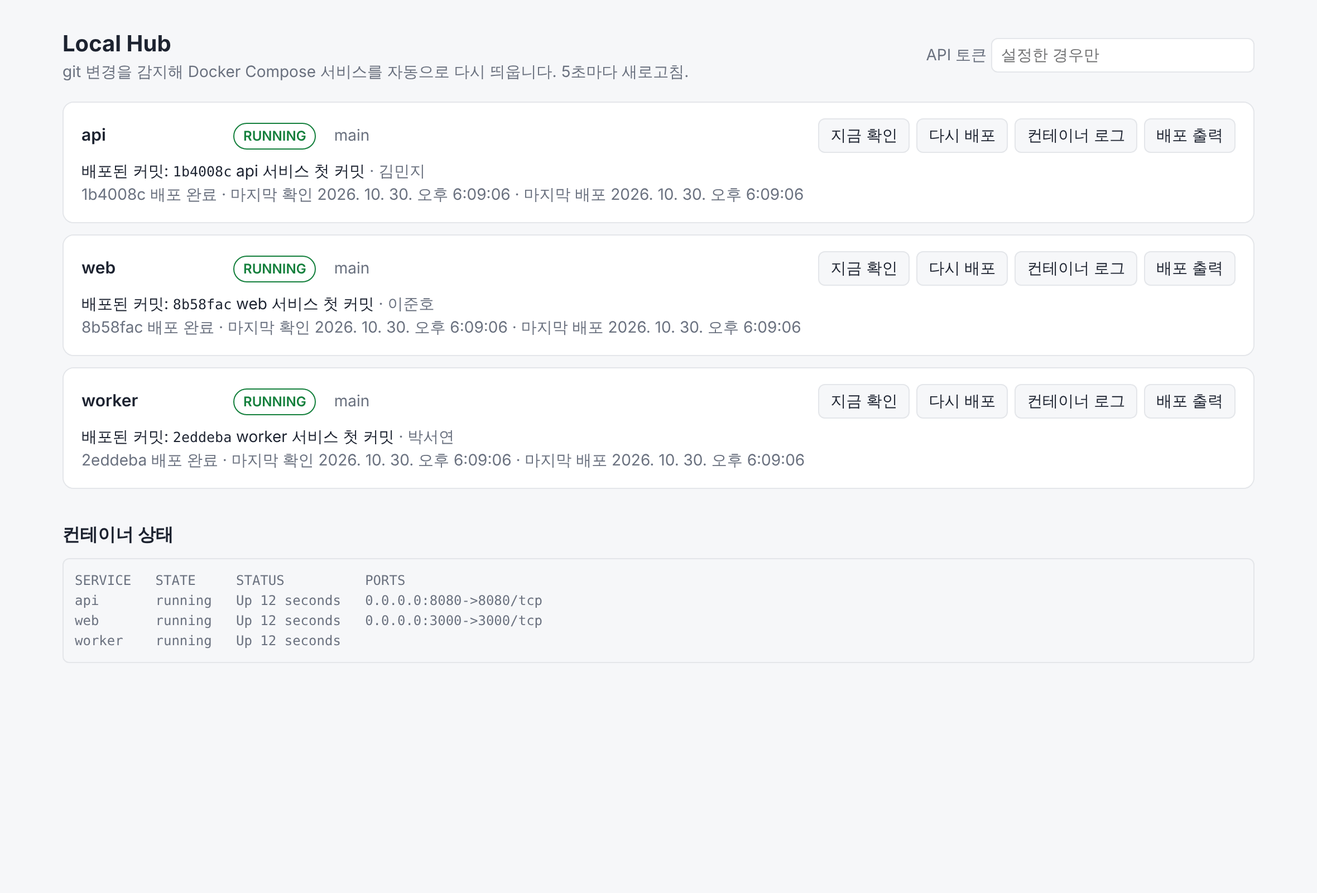
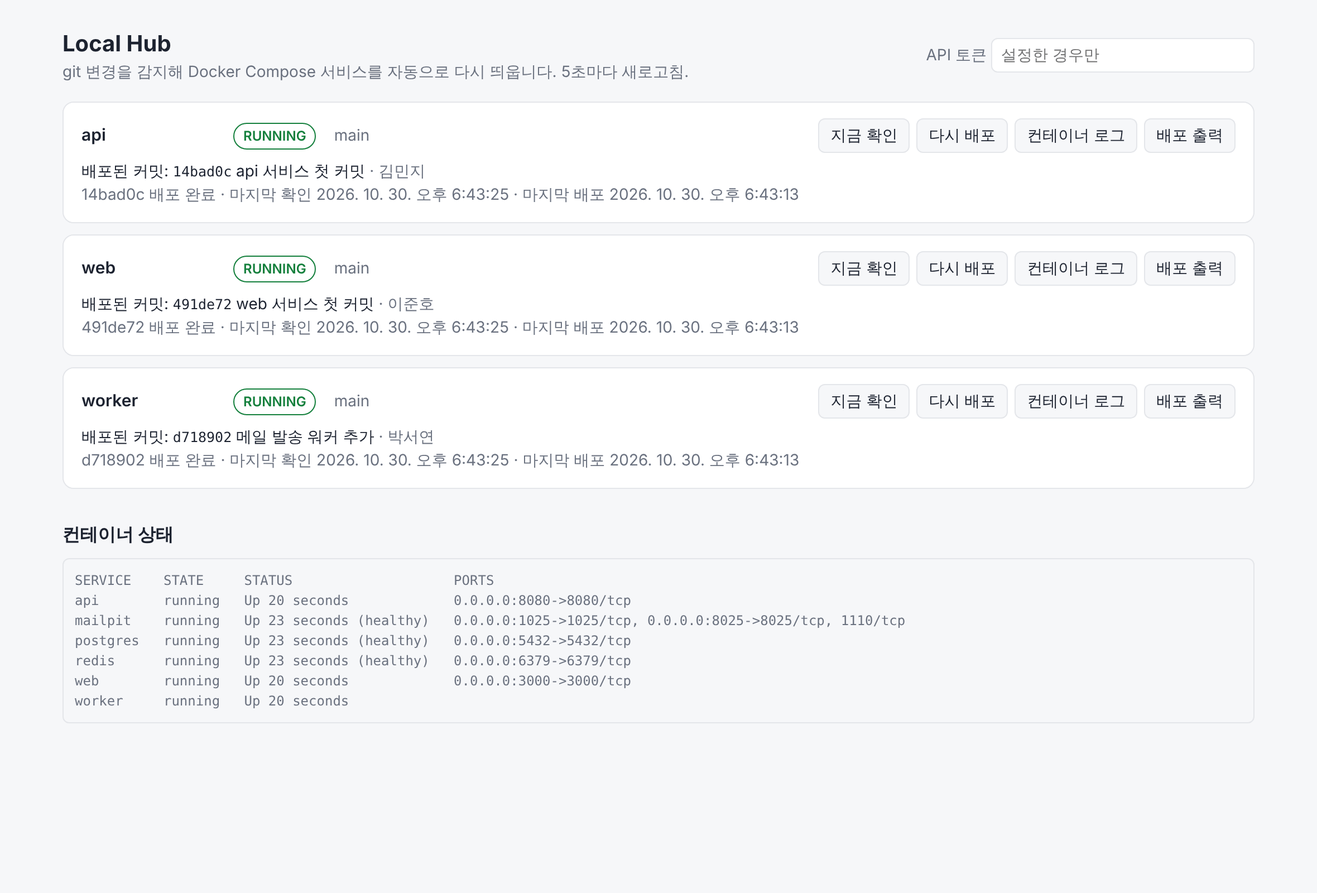
Update guide for planner workflow and Local Hub failure issues
Adds the planning issue form, plan-linked tasks and progress, the
weekly plan progress section, and Local Hub's automatic failure issues.
Drops the first-run restart workaround now that the bug is fixed, and
refreshes all dashboard screenshots. GitHub screens are previews built
from the issue form YAML and real script output, marked as such.

Claude-Session: https://claude.ai/code/session_01FSsmaKAN9jmb8rFiVuxQwi

diff --git a/docs/guide/index.html b/docs/guide/index.html
@@ -115,6 +115,7 @@
           <li><a href="#hub-setup">설치와 실행</a></li>
           <li><a href="#hub-dashboard">대시보드</a></li>
           <li><a href="#hub-rules">배포 규칙</a></li>
+          <li><a href="#hub-issues">실패를 이슈로 알리기</a></li>
           <li><a href="#hub-api">API와 토큰</a></li>
           <li><a href="#hub-infra">공통 서비스</a></li>
           <li><a href="#hub-private">비공개 저장소</a></li>
@@ -125,6 +126,7 @@
           <li><a href="#tasks-what">자동으로 되는 일</a></li>
           <li><a href="#tasks-setup">처음 설정</a></li>
           <li><a href="#tasks-issue">이슈 쓰는 법</a></li>
+          <li><a href="#tasks-planner">기획자와 함께 쓰기</a></li>
           <li><a href="#tasks-labels">라벨</a></li>
           <li><a href="#tasks-messages">알림 예시</a></li>
           <li><a href="#tasks-board">칸반 보드</a></li>
@@ -142,14 +144,14 @@
     <header class="hero">
       <div class="eyebrow">SideProjectManager</div>
       <h1>사용 가이드</h1>
-      <p class="lead">클라우드나 유료 서비스 없이 토이·사이드 프로젝트를 굴리기 위한 세 가지 도구의 사용법입니다. 공용 PC 한 대에서 돌아가는 통합 서버, GitHub 이슈 기반 일정 관리, 그리고 새 프로젝트용 뼈대입니다.</p>
+      <p class="lead">클라우드나 유료 서비스 없이 토이·사이드 프로젝트를 굴리기 위한 세 가지 도구의 사용법입니다. 공용 PC 한 대에서 돌아가는 통합 서버, 기획자와 개발자가 함께 쓰는 GitHub 이슈 기반 일정 관리, 그리고 새 프로젝트용 뼈대입니다.</p>
     </header>
 
     <section id="overview">
       <h2>한눈에 보기</h2>
       <div class="overview">
-        <a href="#hub"><b>Local Hub</b><span>공용 PC에 DB 같은 공통 서비스와 팀원 서비스를 함께 띄우고, git에 새 커밋이 올라오면 자동으로 다시 빌드합니다. 실패하면 이전 커밋으로 되돌립니다.</span></a>
-        <a href="#tasks"><b>일정·할 일 자동 관리</b><span>GitHub Issues와 Actions로 상태·우선순위·마감 라벨, 매일 마감 알림, 주간 요약, Discord/Slack 알림을 돌립니다.</span></a>
+        <a href="#hub"><b>Local Hub</b><span>공용 PC에 DB 같은 공통 서비스와 팀원 서비스를 함께 띄우고, git에 새 커밋이 올라오면 자동으로 다시 빌드합니다. 실패하면 이전 커밋으로 되돌리고 GitHub 이슈로 알립니다.</span></a>
+        <a href="#tasks"><b>일정·할 일 자동 관리</b><span>GitHub Issues와 Actions로 기획과 할 일을 연결해 진행률을 보고, 상태·마감 라벨, 매일 마감 알림, 주간 요약, Discord/Slack 알림을 돌립니다.</span></a>
         <a href="#template"><b>프로젝트 템플릿</b><span>README, 기여 규칙, PR 양식, 기술 결정 기록, 언어를 알아서 감지하는 CI, Dependabot 설정을 한 번에 깔아 줍니다.</span></a>
       </div>
       <div class="table-wrap"><table>
@@ -233,10 +235,6 @@ SideProjectManager/scripts/init-project.sh ../my-project --hub        # Local Hu
       SPRING_DATA_REDIS_HOST: redis</code></pre></li>
         <li><p>다시 실행하고 브라우저에서 <code>http://&lt;공용PC IP&gt;:8090</code>을 엽니다.</p></li>
       </ol>
-      <div class="note warn">
-        <strong>처음 실행할 때 공통 서비스가 안 뜰 수 있습니다</strong>
-        이번 가이드를 만들며 실제로 돌려 보니, 서비스 저장소를 아직 한 번도 clone하지 않은 첫 실행에서는 공통 서비스 기동이 <code>path ".../workspace/web" not found</code> 오류로 실패했습니다. 공통 서비스를 띄우는 명령이 팀원 서비스까지 함께 빌드하려 하기 때문입니다. 서비스 배포는 정상적으로 끝나므로, 첫 실행 뒤 Local Hub를 한 번 껐다 켜면 공통 서비스가 올라옵니다.
-      </div>
 
       <h3 id="hub-dashboard">대시보드</h3>
       <p>서비스마다 카드가 하나씩 있고, 화면은 5초마다 저절로 새로고침됩니다. 카드에는 상태, 감시 중인 브랜치, 지금 떠 있는 커밋(해시, 메시지, 작성자), 마지막 확인·배포 시각이 나옵니다. 아래쪽 <b>컨테이너 상태</b>는 공통 서비스를 포함한 Compose 프로젝트 전체의 <code>docker compose ps</code> 결과입니다.</p>
@@ -283,6 +281,10 @@ SideProjectManager/scripts/init-project.sh ../my-project --hub        # Local Hu
         <figcaption><b>배포 출력</b>을 펼치면 실패 원인이 바로 보입니다. 이 예에서는 Dockerfile의 <code>RUN npm run build</code>가 <code>npm: not found</code>로 실패했습니다. 출력은 최근 200줄까지 남습니다.</figcaption>
       </figure>
       <figure>
+        <img src="img/02c-dashboard-recovered.png" alt="web이 고친 커밋으로 다시 RUNNING이 된 대시보드" loading="lazy">
+        <figcaption>이준호 님이 문제를 고친 커밋 <code>895c922</code>를 푸시하자 web이 다시 <span class="badge s-RUNNING">RUNNING</span>이 되고 실패 표시가 사라졌습니다.</figcaption>
+      </figure>
+      <figure>
         <img src="img/04-container-logs.png" alt="worker 카드의 컨테이너 로그를 펼친 화면. 3초마다 메일 발송 큐 확인 로그가 찍혀 있다." loading="lazy">
         <figcaption><b>컨테이너 로그</b>는 <code>docker compose logs --tail 200</code> 결과입니다. 공용 PC에 접속하지 않고도 팀원 서비스의 로그를 볼 수 있습니다.</figcaption>
       </figure>
@@ -307,6 +309,41 @@ SideProjectManager/scripts/init-project.sh ../my-project --hub        # Local Hu
         <li><code>--no-deps</code>라서 한 서비스를 다시 띄워도 DB 같은 다른 컨테이너는 건드리지 않습니다.</li>
         <li><code>workspace/</code>는 배포 전용입니다. 배포할 때 <code>git reset --hard</code>를 하므로 그 안에서 코드를 직접 고치지 마세요.</li>
         <li>같은 서비스의 배포는 한 번에 하나만 돕니다. 배포 중에 버튼을 다시 눌러도 겹쳐 돌지 않습니다.</li>
+      </ul>
+
+      <h3 id="hub-issues">실패를 GitHub 이슈로 알리기</h3>
+      <p>켜 두면 배포가 실패하거나 되돌려질 때 그 서비스 저장소에 이슈가 자동으로 올라가고, 커밋 작성자가 멘션됩니다. 다음 배포가 성공하면 댓글을 남기고 이슈를 닫습니다. 대시보드를 보고 있지 않아도 실패를 놓치지 않게 하는 기능입니다.</p>
+<pre><code># hub.yml
+hub:
+  issues:
+    enabled: true
+    token: ${HUB_GITHUB_TOKEN:}       # 토큰은 파일에 적지 말고 환경 변수로
+    labels: [local-hub, "type: bug"]  # 첫 번째 라벨로 기존 이슈를 찾음
+    include-output: true              # 빌드 출력 끝부분(80줄)을 이슈에 넣을지
+  services:
+    - name: web
+      repo: git@github.com:your-team/web.git
+      issue-repo: your-team/web       # 비우면 repo 주소에서 알아냄</code></pre>
+<pre><code>export HUB_GITHUB_TOKEN=github_pat_...   # Windows: set HUB_GITHUB_TOKEN=...
+./hub.sh</code></pre>
+      <div class="table-wrap"><table>
+        <thead><tr><th>상황</th><th>이슈에 생기는 일</th></tr></thead>
+        <tbody>
+          <tr><td>배포 실패·되돌림</td><td><code>[Local Hub] &lt;서비스&gt; 배포 실패</code> 이슈 생성. 실패한 커밋, 상태, 빌드 출력 끝부분, 커밋 작성자 멘션</td></tr>
+          <tr><td>이슈가 열린 채로 다른 커밋도 실패</td><td>같은 이슈에 댓글 추가 (서비스마다 이슈는 하나)</td></tr>
+          <tr><td>같은 실패가 계속됨</td><td>아무것도 하지 않음. 매 주기마다 댓글이 쌓이지 않음</td></tr>
+          <tr><td>다음 배포 성공</td><td>"정상으로 돌아왔어요" 댓글을 남기고 닫음. Local Hub를 재시작한 뒤의 첫 성공도 포함</td></tr>
+        </tbody>
+      </table></div>
+      <figure>
+        <img src="img/14-hub-failure-issue.png" alt="[Local Hub] web 배포 실패 이슈 미리보기. 상태, 브랜치, 실패한 커밋 표와 작성자 멘션, 빌드 출력 접기, 정상화 댓글이 있다." loading="lazy">
+        <figcaption>위 대시보드 예시에서 Local Hub가 실제로 보낸 이슈 본문과 댓글입니다. 실제 GitHub 대신 테스트용 가짜 GitHub API로 받아서 그렸기 때문에 화면 모양은 GitHub와 다르고, 작성자 계정 <code>@junho-lee</code>도 예시입니다.</figcaption>
+      </figure>
+      <ul>
+        <li>토큰: GitHub <b>Settings → Developer settings → Fine-grained tokens</b>에서 대상 저장소를 고르고 <b>Issues: Read and write</b>, <b>Contents: Read-only</b>로 만듭니다. Contents 권한은 커밋 작성자의 GitHub 계정을 찾는 데만 씁니다.</li>
+        <li>이슈에 <code>type: bug</code> 라벨이 붙으므로 아래 일정 자동화의 마감 알림과 주간 요약에도 그대로 잡힙니다.</li>
+        <li>공개 저장소라면 빌드 출력에 비밀 값이 찍히지 않는지 확인하고, 걱정되면 <code>include-output: false</code>로 둡니다.</li>
+        <li>GitHub에 연결할 수 없어도 배포는 그대로 진행되고, 다음 실패 때 다시 시도합니다.</li>
       </ul>
 
       <h3 id="hub-api">API와 토큰</h3>
@@ -367,7 +404,9 @@ SideProjectManager/scripts/init-project.sh ../my-project --hub        # Local Hu
           <tr><td>PR 본문에 <code>closes #12</code></td><td>12번 이슈를 <code>status: review</code>로. PR이 머지 없이 닫히면 원래대로</td><td><code>issue-automation.yml</code></td></tr>
           <tr><td>이슈가 닫힐 때</td><td>상태·마감 라벨 정리</td><td><code>issue-automation.yml</code></td></tr>
           <tr><td>매일 오전 9시 (KST)</td><td>마감 라벨 갱신, 새로 마감이 지난 이슈에 담당자 멘션 댓글, Discord/Slack으로 요약</td><td><code>due-reminders.yml</code></td></tr>
-          <tr><td>매주 월요일 오전 9시 (KST)</td><td>지난주 완료, 마감 지남, 담당자별 진행 중 목록을 "주간 요약" 이슈로 만들고 지난 요약은 닫음</td><td><code>weekly-summary.yml</code></td></tr>
+          <tr><td>매주 월요일 오전 9시 (KST)</td><td>지난주 완료, 마감 지남, 기획별 진행률, 담당자별 진행 중 목록을 "주간 요약" 이슈로 만들고 지난 요약은 닫음</td><td><code>weekly-summary.yml</code></td></tr>
+          <tr><td>할 일에 "관련 기획"을 적으면</td><td>그 기획 이슈의 하위 이슈로 연결 (기획 화면에 진행률 막대가 생김). 기획 번호를 바꾸면 옮김</td><td><code>issue-automation.yml</code></td></tr>
+          <tr><td>기획에 연결된 할 일이 모두 닫히면</td><td>기획 작성자를 멘션해 "의도대로 됐는지 확인해 주세요" 댓글</td><td><code>issue-automation.yml</code></td></tr>
           <tr><td><code>labels.json</code>이 바뀔 때</td><td>저장소 라벨 생성·갱신</td><td><code>labels.yml</code></td></tr>
         </tbody>
       </table></div>
@@ -375,7 +414,7 @@ SideProjectManager/scripts/init-project.sh ../my-project --hub        # Local Hu
       <h3 id="tasks-setup">처음 설정 (5분)</h3>
       <ol class="steps">
         <li><p><code>.github/</code>를 프로젝트에 복사합니다: <code>scripts/init-project.sh ../my-project --tasks</code></p></li>
-        <li><p>GitHub에 푸시한 뒤 <b>Actions</b> 탭 → <b>라벨 동기화</b> → <b>Run workflow</b>를 한 번 누릅니다. 라벨 11개가 만들어집니다.</p></li>
+        <li><p>GitHub에 푸시한 뒤 <b>Actions</b> 탭 → <b>라벨 동기화</b> → <b>Run workflow</b>를 한 번 누릅니다. 라벨 13개가 만들어집니다.</p></li>
         <li><p>(선택) 채팅방 알림을 받으려면 <b>Settings → Secrets and variables → Actions → New repository secret</b>에 추가합니다.</p>
           <ul>
             <li>Discord: 채널 설정 → 연동 → 웹후크에서 만든 URL을 <code>DISCORD_WEBHOOK_URL</code>로</li>
@@ -386,22 +425,62 @@ SideProjectManager/scripts/init-project.sh ../my-project --hub        # Local Hu
       </ol>
 
       <h3 id="tasks-issue">이슈 쓰는 법</h3>
-      <p><b>New issue</b>에서 <b>할 일</b> 또는 <b>버그</b> 양식을 고르면 마감일과 우선순위 칸이 있습니다.</p>
+      <p><b>New issue</b>에서 양식을 고릅니다. 할 일과 버그 양식에는 마감일, 우선순위, 그리고 이 일이 속한 기획을 적는 <b>관련 기획</b> 칸이 있습니다.</p>
       <div class="table-wrap"><table>
-        <thead><tr><th>양식</th><th>칸</th><th>자동 라벨</th></tr></thead>
+        <thead><tr><th>양식</th><th>누가</th><th>칸</th><th>자동 라벨</th></tr></thead>
         <tbody>
-          <tr><td>할 일</td><td>내용(필수), 완료 조건, 마감일, 우선순위(P0 긴급 · P1 높음 · P2 보통, 기본 P2)</td><td><code>type: task</code></td></tr>
-          <tr><td>버그</td><td>무슨 일이 있었나요, 재현 방법, 마감일, 우선순위</td><td><code>type: bug</code></td></tr>
+          <tr><td>기획</td><td>기획자</td><td>기획 의도(필수), 목표와 성공 기준(필수), 대상 사용자, 주요 내용(필수), 이번에 하지 않는 것, 참고 자료, 마감일, 우선순위(기본 P1)</td><td><code>type: planning</code></td></tr>
+          <tr><td>할 일</td><td>개발자</td><td>내용(필수), 완료 조건, 관련 기획, 마감일, 우선순위(P0 긴급 · P1 높음 · P2 보통, 기본 P2)</td><td><code>type: task</code></td></tr>
+          <tr><td>버그</td><td>누구나</td><td>무슨 일이 있었나요, 재현 방법, 관련 기획, 마감일, 우선순위</td><td><code>type: bug</code></td></tr>
         </tbody>
       </table></div>
+      <figure>
+        <img src="img/11-form-task.png" alt="할 일 양식 미리보기. 내용, 완료 조건, 관련 기획(#5), 마감일, 우선순위 칸이 채워져 있다." loading="lazy">
+        <figcaption>할 일 양식을 <code>task.yml</code>로 그린 미리보기입니다(실제 GitHub 화면 아님). 관련 기획 칸에 <code>#5</code>를 적으면 5번 기획 아래로 연결됩니다.</figcaption>
+      </figure>
       <p>양식 없이 쓴 이슈도 본문에 이런 줄이 있으면 마감일로 인식합니다. <code>마감</code>, <code>due</code>로 써도 되고 <code>2026.11.15</code>, <code>2026/11/5</code> 형식도 됩니다. 마감일을 바꾸려면 본문만 고치면 라벨이 바로 다시 계산됩니다.</p>
-<pre><code>마감일: 2026-11-15</code></pre>
+<pre><code>마감일: 2026-11-15
+기획: #5</code></pre>
+      <p><code>기획:</code> 줄(또는 <code>관련 기획:</code>)은 기획 번호를 적는 줄로, <code>#5</code>, <code>5</code>, 이슈 주소 모두 인식합니다.</p>
+
+      <h3 id="tasks-planner">기획자와 함께 쓰기</h3>
+      <p>기획자는 코드를 몰라도 GitHub 이슈만으로 참여할 수 있습니다. 기획자가 왜 무엇을 만드는지 기획 이슈로 쓰고, 개발자가 그걸 할 일로 나눠 연결하면, 기획 이슈에서 진행률을 보고 끝나면 확인 요청을 받습니다.</p>
+<pre><code>기획자: 기획 이슈 작성 (#5)          개발자: 할 일 이슈 작성, "관련 기획" 에 #5
+   기획 의도 · 목표와 성공 기준   ──▶     #12 온보딩 안내 화면  ┐
+   주요 내용 · 하지 않는 것                #13 건너뛰기 처리     ├─ #5 아래 하위 이슈로 자동 연결
+   참고 자료 · 마감일                      #14 첫 글쓰기 이동    ┘
+        ▲                                      │ 모두 닫히면
+        └──── "@기획자 확인해 주세요" 댓글 ◀────┘</code></pre>
+      <ol class="steps">
+        <li><p><b>기획자</b>가 New issue → <b>기획</b> 양식으로 씁니다. 기획 의도, 목표와 성공 기준, 주요 내용은 필수이고, 이번에 하지 않는 것과 참고 자료(Figma 링크, 이미지를 끌어다 놓기)를 적으면 개발 일정이 덜 흔들립니다.</p>
+          <figure>
+            <img src="img/10-form-planning.png" alt="기획 양식 미리보기. 기획 의도, 목표와 성공 기준, 대상 사용자, 주요 내용, 이번에 하지 않는 것, 참고 자료, 마감일, 우선순위 칸에 예시가 채워져 있다." loading="lazy">
+            <figcaption>기획 양식을 <code>planning.yml</code>로 그린 미리보기입니다(실제 GitHub 화면 아님). 칸에 적힌 내용은 예시입니다.</figcaption>
+          </figure></li>
+        <li><p><b>개발자</b>가 기획을 읽고 일을 나눠 <b>할 일</b>을 만들며, <b>관련 기획</b> 칸에 기획 번호를 적습니다. 그러면 할 일이 기획의 하위 이슈로 붙고, 기획 이슈에 진행률 막대가 생깁니다. 질문은 기획 이슈 댓글로 주고받으면 기록이 한곳에 모입니다.</p>
+          <figure>
+            <img src="img/12-plan-progress.png" alt="기획 이슈 #5 미리보기. 본문 아래 하위 이슈 3개 중 2개 완료로 진행률 막대가 보인다." loading="lazy">
+            <figcaption>할 일 3개가 연결되고 2개가 끝난 기획 이슈의 미리보기입니다(실제 GitHub 화면 아님). 실제로는 GitHub의 하위 이슈(sub-issue) 영역에 같은 정보가 나옵니다.</figcaption>
+          </figure></li>
+        <li><p>연결된 할 일이 모두 닫히면 자동화가 기획 작성자를 멘션해 확인을 요청합니다. 의도대로 됐으면 기획자가 기획 이슈를 닫습니다. "계획 없음"으로 닫은 할 일은 완료로 치지 않습니다.</p>
+          <figure>
+            <img src="img/13-plan-done.png" alt="하위 이슈 3/3 완료와 기획 작성자에게 확인을 요청하는 자동 댓글 미리보기" loading="lazy">
+            <figcaption>댓글 문구는 <code>triage.js</code>가 실제로 다는 내용이고, 화면은 미리보기입니다.</figcaption>
+          </figure></li>
+        <li><p>매주 월요일 주간 요약의 <b>기획 진행률</b>에 기획마다 <code>완료/전체</code>가 나옵니다(<a href="#tasks-messages">알림 예시</a> 참고).</p></li>
+      </ol>
+      <div class="note">
+        <strong>기획자 권한은 Triage면 충분합니다</strong>
+        저장소 <b>Settings → Collaborators → Add people</b>에서 역할을 <b>Triage</b>로 고르세요. 이슈 작성, 라벨, 닫기는 되고 코드는 고칠 수 없습니다. 비공개 저장소에서도 무료입니다.
+      </div>
+      <p>하위 이슈 기능을 쓸 수 없는 환경이면 기획 이슈에 "할 일 #12 가 이 기획에 연결됐어요" 댓글로 대신 남깁니다. 관련 기획 번호가 없는 이슈를 가리키면 할 일 이슈에 안내 댓글이 달립니다.</p>
 
       <h3 id="tasks-labels">라벨</h3>
       <p><code>.github/labels.json</code>에 정의된 라벨입니다. 상태·우선순위·마감 라벨은 그룹마다 하나만 남도록 자동으로 맞춥니다.</p>
       <div class="labels" aria-label="라벨 목록">
         <span class="chip" style="background:#1d76db;color:#fff">type: task</span>
         <span class="chip" style="background:#d73a4a;color:#fff">type: bug</span>
+        <span class="chip" style="background:#8250df;color:#fff">type: planning</span>
         <span class="chip" style="background:#ededed;color:#1b2226">status: todo</span>
         <span class="chip" style="background:#fbca04;color:#1b2226">status: in-progress</span>
         <span class="chip" style="background:#0e8a16;color:#fff">status: review</span>
@@ -411,48 +490,26 @@ SideProjectManager/scripts/init-project.sh ../my-project --hub        # Local Hu
         <span class="chip" style="background:#f9d0c4;color:#1b2226">due-soon</span>
         <span class="chip" style="background:#b60205;color:#fff">overdue</span>
         <span class="chip" style="background:#5319e7;color:#fff">weekly-summary</span>
+        <span class="chip" style="background:#0052cc;color:#fff">local-hub</span>
       </div>
       <ul>
         <li><code>due-soon</code>: 마감 2일 이내 (오늘 포함)</li>
         <li><code>overdue</code>: 마감일이 지남. 처음 붙을 때 담당자를 멘션하는 댓글이 한 번 달림</li>
         <li><code>status: review</code>: 같은 저장소 브랜치에서 올린 PR이 이슈를 <code>closes</code>로 연결했을 때</li>
+        <li><code>type: planning</code>: 기획 양식으로 쓴 이슈. 주간 요약의 담당자별 목록에서는 빠지고 기획 진행률에 나옴</li>
+        <li><code>local-hub</code>: Local Hub가 자동으로 올린 배포 실패 이슈</li>
       </ul>
 
       <h3 id="tasks-messages">알림 예시</h3>
-      <p>아래는 저장소의 알림 스크립트(<code>.github/scripts/lib.js</code>)에 예시 이슈를 넣어 실제로 만든 본문입니다. 2026-11-02(월) 기준이고, 이슈와 담당자는 예시입니다. Discord/Slack에는 이 본문 끝에 이슈 목록 링크가 붙어 그대로 올라갑니다.</p>
-      <div class="two">
-        <div>
-          <div class="sample-label">매일 마감 알림</div>
-<pre><code>**마감 알림 (2026-11-02)**
-
-마감 지남 1건
-- #12 로그인 화면 구현 (@minji) · 2026-10-31, 2일 지남
-
-마감 임박 2건
-- #15 회원 가입 API (@junho) · 2026-11-02, 오늘 마감
-- #18 배포 문서 정리 (담당자 없음) · 2026-11-04, 2일 남음</code></pre>
-          <p>알릴 이슈가 없는 날은 아무것도 보내지 않습니다.</p>
-        </div>
-        <div>
-          <div class="sample-label">월요일 주간 요약 이슈</div>
-<pre><code>## 주간 요약 (2026-10-26 ~ 2026-11-02)
-
-완료 2건 · 열린 이슈 4건
-
-### 이번 주 완료
-- #9 DB 스키마 설계 (@minji)
-- #11 CI 설정 (@seoyeon)
-
-### 마감 지남
-- #12 로그인 화면 구현 (@minji) · 마감 2026-10-31
-
-### 담당자별 진행 중
-- @junho: #15
-- @minji: #12
-- @seoyeon: #20
-- 담당자 없음: #18</code></pre>
-        </div>
-      </div>
+      <p>아래 두 화면의 본문은 저장소의 알림 스크립트(<code>.github/scripts/lib.js</code>)에 예시 이슈를 넣어 실제로 만든 것입니다. 2026-11-02(월) 기준이고, 이슈와 사람은 예시입니다. 화면 모양은 미리보기이고 실제 GitHub나 채팅 앱 화면은 아닙니다.</p>
+      <figure>
+        <img src="img/16-chat-reminder.png" alt="채팅방에 올라온 마감 알림 미리보기. 마감 지남 1건, 마감 임박 2건과 이슈 목록 링크" loading="lazy">
+        <figcaption>매일 오전 9시 Discord/Slack에 올라가는 마감 알림. 끝에 마감 지남·임박 이슈 목록 링크가 붙습니다. 알릴 이슈가 없는 날은 보내지 않습니다.</figcaption>
+      </figure>
+      <figure>
+        <img src="img/15-weekly-summary.png" alt="주간 요약 이슈 미리보기. 이번 주 완료, 마감 지남, 기획 진행률, 담당자별 진행 중 목록" loading="lazy">
+        <figcaption>월요일 주간 요약 이슈. <b>기획 진행률</b>에 "#5 첫 방문자 온보딩: 2/3 완료"처럼 기획마다 연결된 할 일의 완료 수가 나옵니다. 기획 이슈 자체는 담당자별 목록에서 빠집니다.</figcaption>
+      </figure>
       <p>주간 요약은 <code>주간 요약 2026-11-02</code> 같은 제목의 이슈로 만들어지고 <code>weekly-summary</code> 라벨이 붙습니다. "계획 없음(Close as not planned)"으로 닫은 이슈는 완료 목록에서 빠집니다.</p>
 
       <h3 id="tasks-board">칸반 보드로 보기</h3>
@@ -491,7 +548,7 @@ SideProjectManager/scripts/init-project.sh ../my-project --hub        # Local Hu
         <thead><tr><th>파일</th><th>내용</th></tr></thead>
         <tbody>
           <tr><td><code>README.md</code></td><td>한 줄 소개, 목표, 팀, 기술 스택, 실행 방법, 일정 칸</td></tr>
-          <tr><td><code>CONTRIBUTING.md</code></td><td>이슈로 일 시작하기, 브랜치 이름(<code>feat/12-login-api</code>), Conventional Commits, PR은 Squash and merge, 24시간 안에 첫 리뷰, 제안은 <code>nit:</code></td></tr>
+          <tr><td><code>CONTRIBUTING.md</code></td><td>기획자가 기획 이슈를 쓰고 개발자가 관련 기획을 적어 할 일로 나누는 흐름, 브랜치 이름(<code>feat/12-login-api</code>), Conventional Commits, PR은 Squash and merge, 24시간 안에 첫 리뷰, 제안은 <code>nit:</code></td></tr>
           <tr><td><code>.github/pull_request_template.md</code></td><td>무엇을 했나요(<code>closes #</code>), 어떻게 확인했나요, 리뷰어가 봐 줬으면 하는 부분</td></tr>
           <tr><td><code>.github/workflows/ci.yml</code></td><td><code>pom.xml</code>, Gradle, <code>package.json</code>, <code>requirements.txt</code>/<code>pyproject.toml</code>을 감지해 맞는 빌드·테스트를 돌림. 빌드 파일이 없으면 건너뜀</td></tr>
           <tr><td><code>.github/dependabot.yml</code></td><td>GitHub Actions 버전을 매주 확인해 업데이트 PR. 주석을 풀면 maven/gradle/npm/pip 라이브러리도</td></tr>
@@ -529,7 +586,7 @@ SideProjectManager/scripts/init-project.sh ../my-project --hub        # Local Hu
 Local Hub 복사
 git 저장소를 새로 만들었습니다 (main 브랜치)
 
-완료: 55개 복사, 0개 건너뜀 → ./my-project
+완료: 63개 복사, 0개 건너뜀 → ./my-project
 
 다음 할 일
   - README.md 의 소개·팀·기술 스택 채우기
@@ -540,13 +597,13 @@ git 저장소를 새로 만들었습니다 (main 브랜치)
       <div class="sample-label">만들어지는 구조</div>
 <pre><code>my-project/
 ├── README.md               소개·팀·기술 스택·실행 방법·일정 (프로젝트 이름 자동 입력)
-├── CONTRIBUTING.md         브랜치·커밋·PR·리뷰 규칙
+├── CONTRIBUTING.md         기획→할 일 흐름, 브랜치·커밋·PR·리뷰 규칙
 ├── docs/decisions/         기술 결정 기록 (양식 포함)
 ├── .github/
 │   ├── workflows/ci.yml    언어를 감지해 빌드·테스트
 │   ├── workflows/...       이슈 정리, 마감 알림, 주간 요약, 라벨 동기화
 │   ├── scripts/            자동화 로직 (JavaScript)
-│   ├── ISSUE_TEMPLATE/     할 일·버그 양식
+│   ├── ISSUE_TEMPLATE/     기획·할 일·버그 양식
 │   ├── labels.json
 │   ├── pull_request_template.md
 │   └── dependabot.yml
@@ -556,19 +613,26 @@ git 저장소를 새로 만들었습니다 (main 브랜치)
 
     <section id="dev">
       <h2>고치고 테스트하기</h2>
-<pre><code>node --test ".github/scripts/*.test.js"     # 일정 자동화 스크립트 (20개 테스트)
-(cd local-hub/app &amp;&amp; ./mvnw test)            # Local Hub 단위 테스트
+<pre><code>node --test ".github/scripts/*.test.js"     # 일정 자동화 스크립트 (27개 테스트)
+(cd local-hub/app &amp;&amp; ./mvnw test)            # Local Hub 단위 테스트 (18개)
 (cd local-hub/app &amp;&amp; ./mvnw package)         # target/local-hub.jar</code></pre>
       <p>워크플로는 <code>actions/github-script</code>로 <code>.github/scripts/</code>의 파일을 불러오기만 하므로, 로직은 거기서 고치고 위 테스트로 확인합니다. PR을 올리면 CI가 두 테스트를 모두 돌립니다.</p>
     </section>
 
     <section id="shots">
       <h2>스크린샷에 대해</h2>
-      <p>Local Hub 화면은 이 가이드를 만들면서 실제로 띄워 찍었습니다. 예시 저장소 세 개(api, web, worker)를 등록하고 Postgres, Redis, Mailpit을 공통 서비스로 올린 뒤, 정상 커밋과 빌드가 깨지는 커밋을 푸시해 자동 배포와 되돌리기가 일어나는 모습을 담았습니다. 커밋 작성자 이름은 예시입니다.</p>
-      <p>GitHub 쪽 화면(이슈 양식, 라벨이 붙은 이슈, Actions 실행, Discord 메시지)은 실제 저장소에 워크플로가 머지되고 로그인된 브라우저가 있어야 찍을 수 있어 넣지 않았습니다. 대신 <a href="#tasks-messages">알림 예시</a>는 저장소의 스크립트로 직접 만든 결과를 실었습니다.</p>
+      <p>이 가이드의 화면은 두 종류입니다.</p>
+      <div class="table-wrap"><table>
+        <thead><tr><th>종류</th><th>화면</th><th>어떻게 만들었나</th></tr></thead>
+        <tbody>
+          <tr><td><b>실제 화면</b></td><td>Local Hub 대시보드 7장, Mailpit</td><td>Local Hub를 실제로 띄워 찍었습니다. 예시 저장소 세 개(api, web, worker)와 Postgres, Redis, Mailpit을 올리고 정상 커밋, 빌드가 깨지는 커밋, 고친 커밋을 차례로 푸시했습니다. 커밋 작성자 이름은 예시입니다.</td></tr>
+          <tr><td><b>미리보기</b> (실제 GitHub 화면 아님)</td><td>기획·할 일 양식, 기획 진행률, 기획 완료 댓글, 배포 실패 이슈, 주간 요약, 채팅 알림</td><td>워크플로가 실제 저장소에서 돌아야 찍을 수 있어 직접 그렸습니다. 양식은 저장소의 YAML 파일에서, 본문과 댓글 문구는 실제 스크립트 출력에서 가져왔습니다. 배포 실패 이슈는 Local Hub가 테스트용 가짜 GitHub API로 실제로 보낸 내용입니다. 이미지 위쪽 노란 표시로 구분됩니다.</td></tr>
+        </tbody>
+      </table></div>
+      <p>PR #1과 #2를 머지한 뒤 실제 저장소에서 기획 이슈를 하나 만들어 보면 GitHub의 실제 화면으로 바꿔 넣을 수 있습니다.</p>
     </section>
 
-    <footer>SideProjectManager · 2026-10-30 기준 · Local Hub(PR #1)와 일정 자동화·템플릿(PR #2) 내용</footer>
+    <footer>SideProjectManager · 2026-10-30 기준 · Local Hub(PR #1)와 일정 자동화·기획자 기능·템플릿(PR #2) 내용</footer>
   </main>
 </div>
 <!--BODY-END-->
